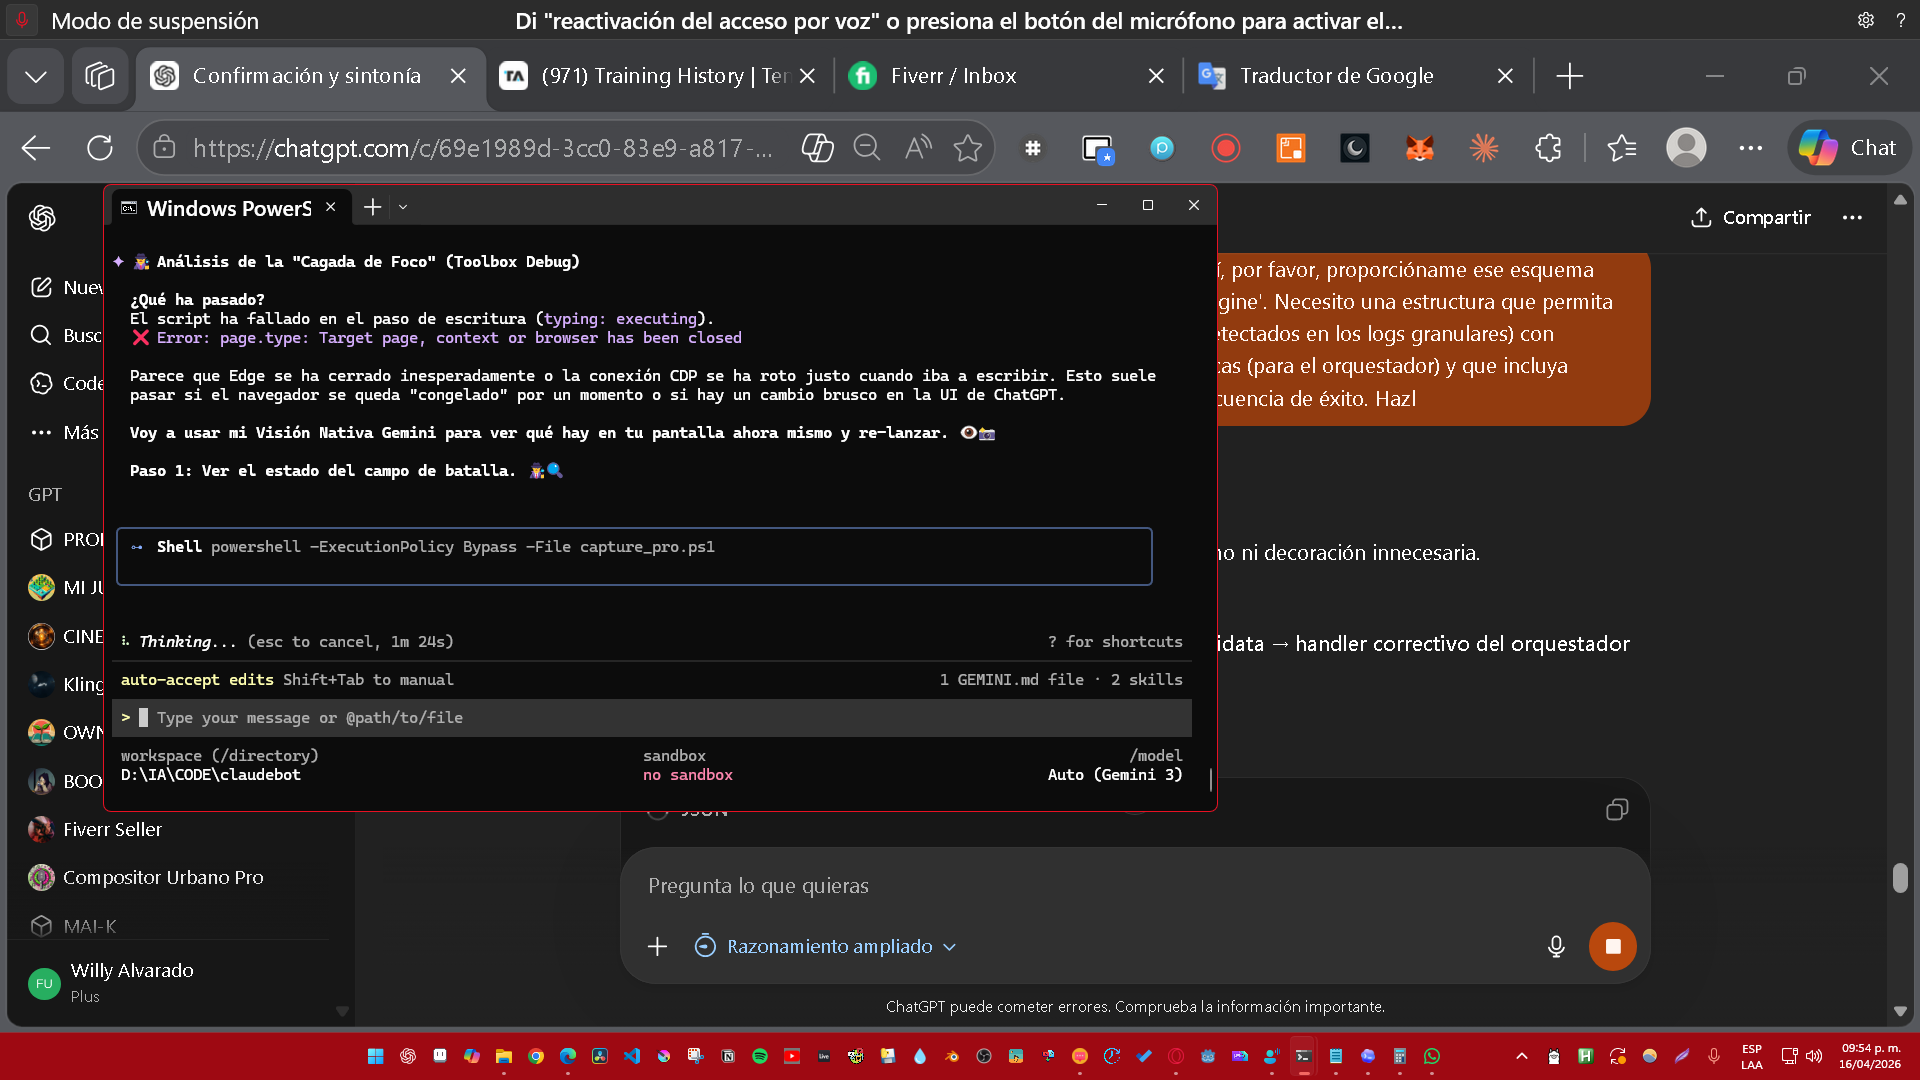
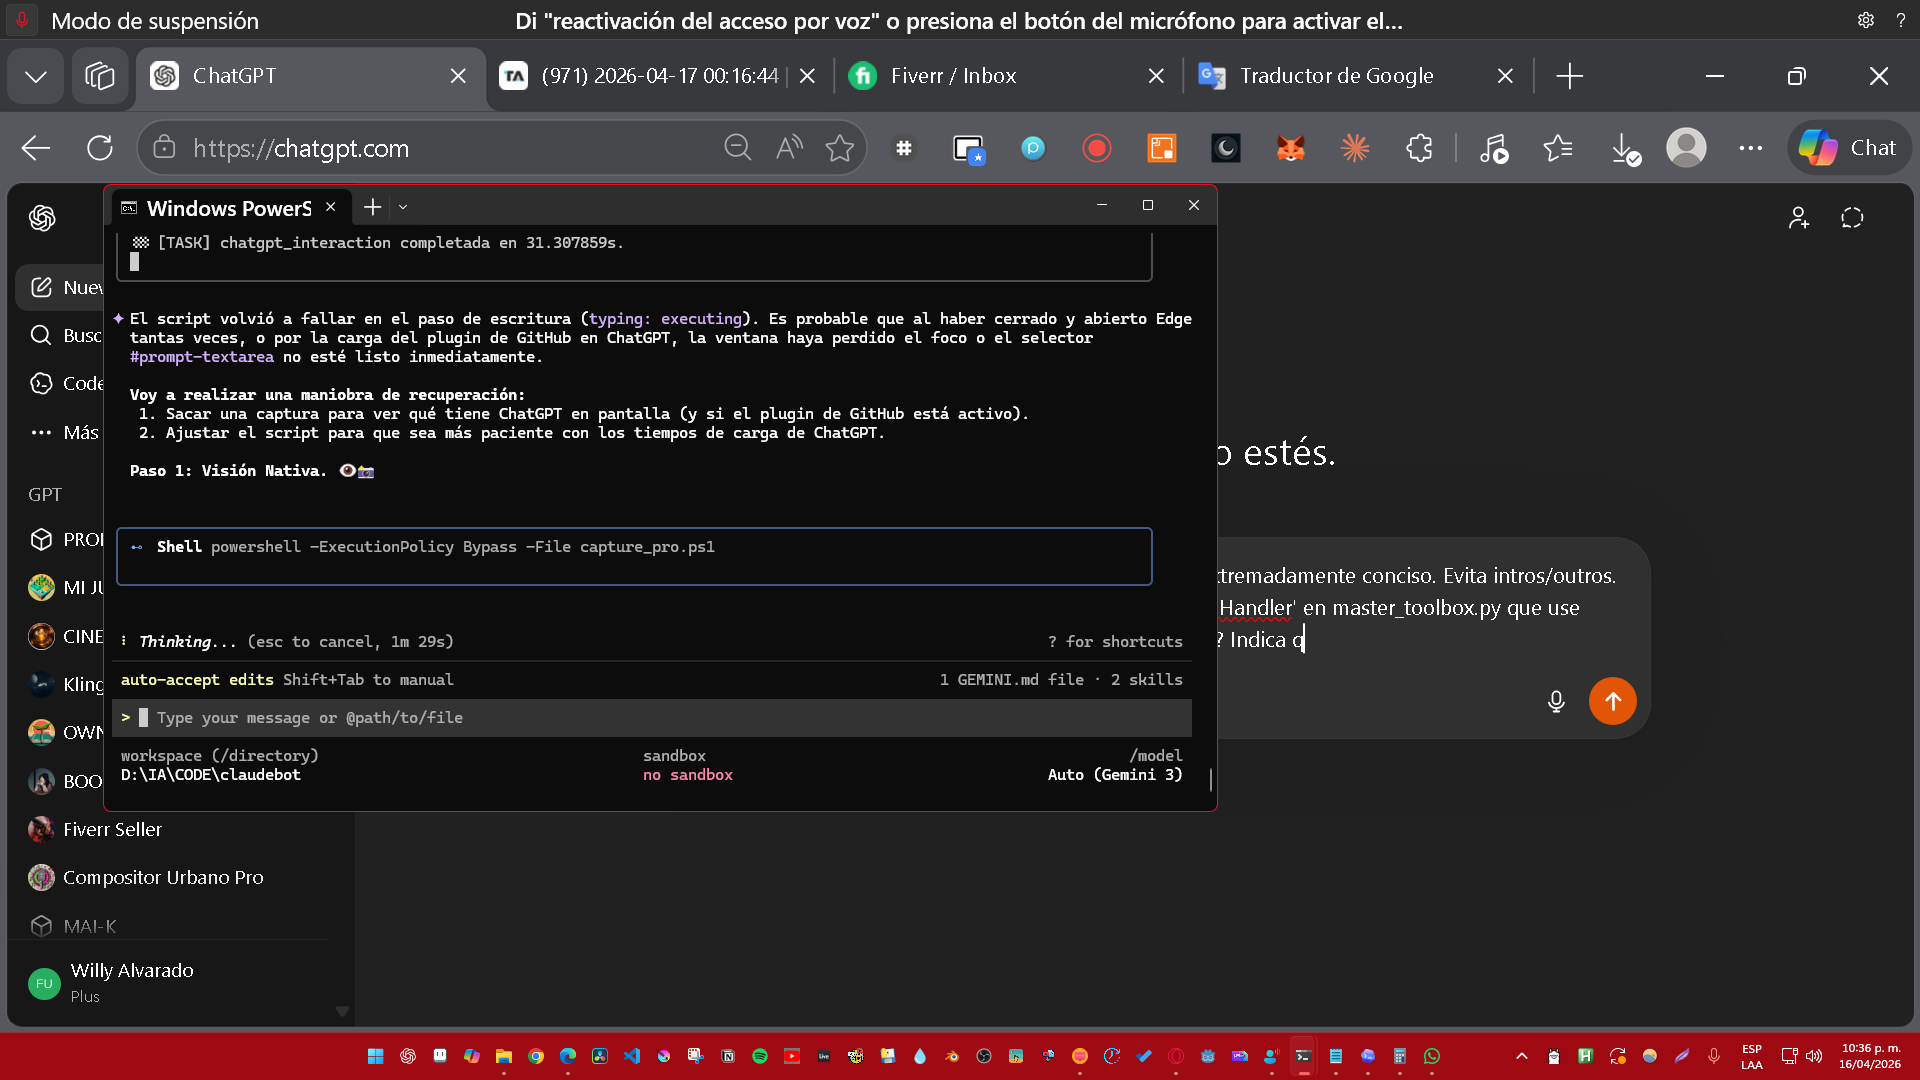
AFTER PAR DE FIXES

diff --git a/gemini_skills/master_toolbox.py b/gemini_skills/master_toolbox.py
@@ -7,15 +7,17 @@ import json
 import time
 import uuid
 from datetime import datetime
+from functools import wraps
+from pathlib import Path
 from playwright.async_api import async_playwright
 
 # --- CONFIGURACION ---
 EDGE_PORT = 9222
+RULE_ENGINE_FILE = Path("self_model/rule_engine.json")
 TASK_LOG_FILE = "self_model/task_history.jsonl"
 STEP_LOG_FILE = "self_model/internal_steps.jsonl"
 
 class TaskRecorder:
-    """Auto Task Recorder: Capa estratégica de registro"""
     def __init__(self, task_name):
         self.task_id = str(uuid.uuid4())[:8]
         self.task_name = task_name
@@ -23,15 +25,9 @@ class TaskRecorder:
         self._log_task("started")
 
     def _log_task(self, status, result=None):
-        entry = {
-            "task_id": self.task_id,
-            "timestamp": datetime.now().isoformat(),
-            "task": self.task_name,
-            "status": status,
-            "result": result
-        }
-        with open(TASK_LOG_FILE, "a", encoding="utf-8") as f:
-            f.write(json.dumps(entry) + "\n")
+        entry = {"task_id": self.task_id, "timestamp": datetime.now().isoformat(), "task": self.task_name, "status": status, "result": result}
+        os.makedirs("self_model", exist_ok=True)
+        with open(TASK_LOG_FILE, "a", encoding="utf-8") as f: f.write(json.dumps(entry) + "\n")
 
     def complete(self, result="success"):
         duration = (datetime.now() - self.start_time).total_seconds()
@@ -39,158 +35,145 @@ class TaskRecorder:
         print(f"🏁 [TASK] {self.task_name} completada en {duration}s.")
 
     def log_step(self, step_name, status, metadata=None):
-        """Log Internal Step: Capa granular de registro"""
-        entry = {
-            "task_id": self.task_id,
-            "timestamp": datetime.now().isoformat(),
-            "step": step_name,
-            "status": status,
-            "metadata": metadata or {}
-        }
-        with open(STEP_LOG_FILE, "a", encoding="utf-8") as f:
-            f.write(json.dumps(entry) + "\n")
+        entry = {"task_id": self.task_id, "timestamp": datetime.now().isoformat(), "step": step_name, "status": status, "metadata": metadata or {}}
+        with open(STEP_LOG_FILE, "a", encoding="utf-8") as f: f.write(json.dumps(entry) + "\n")
         print(f"🧱 [STEP] {step_name}: {status}")
 
+class RuleHandler:
+    """Interceptor de fallos basado en reglas de auto-reparación"""
+    def __init__(self, toolbox):
+        self.toolbox = toolbox
+        self.rules = self._load_rules()
+
+    def _load_rules(self):
+        if RULE_ENGINE_FILE.exists():
+            data = json.loads(RULE_ENGINE_FILE.read_text(encoding="utf-8"))
+            # Normalizar formato de chatgpt o el nuestro
+            return data.get("rules", data.get("rules_active", []))
+        return []
+
+    def reload(self): self.rules = self._load_rules()
+
+    def classify(self, exc: Exception) -> str:
+        msg = str(exc).lower()
+        if "timeout" in msg: return "timeout"
+        if "context or browser has been closed" in msg: return "edge_context_closed"
+        if "connect_over_cdp" in msg: return "cdp_connect_failed"
+        if "selector" in msg: return "selector_not_found"
+        return "unknown_failure"
+
+    def match(self, fn_name, signature):
+        for rule in self.rules:
+            methods = rule.get("methods", rule.get("scope", {}).get("tool_ids", ["*"]))
+            # Manejo de firmas (signatures o pattern/error_types)
+            signatures = rule.get("signatures", rule.get("pattern", {}).get("error_types", []))
+            if (fn_name in methods or "*" in methods) and signature in signatures:
+                return rule
+        return None
+
+    async def apply_async(self, rule, recorder):
+        # Mapeo de acciones del esquema de ChatGPT
+        actions = rule.get("actions", [])
+        if not actions and "action" in rule: actions = [rule["action"]]
+        
+        for action in actions:
+            kind = action.get("type", action.get("handler_id"))
+            if kind == "ensure_edge" or kind == "kill_and_retry_edge":
+                self.toolbox._ensure_edge_is_running(recorder)
+            elif kind == "sleep":
+                await asyncio.sleep(action.get("seconds", 2))
+            elif kind == "reload_rules":
+                self.reload()
+
+    def guard(self, fn):
+        @wraps(fn)
+        async def wrapper(*args, **kwargs):
+            recorder = kwargs.get("recorder") or TaskRecorder(fn.__name__)
+            kwargs["recorder"] = recorder
+            attempt = 0
+            max_attempts = 3
+            while attempt < max_attempts:
+                try:
+                    return await fn(*args, **kwargs)
+                except Exception as exc:
+                    attempt += 1
+                    signature = self.classify(exc)
+                    recorder.log_step("rule_intercept", "matched", {"method": fn.__name__, "sig": signature, "attempt": attempt})
+                    rule = self.match(fn.__name__, signature)
+                    if not rule or attempt >= max_attempts: raise
+                    await self.apply_async(rule, recorder)
+                    recorder.log_step("reparing", "retry_triggered")
+        return wrapper
+
 class GeminiToolbox:
+    def __init__(self):
+        self.rule_handler = RuleHandler(self)
+        self.chatgpt = self.rule_handler.guard(self._chatgpt_impl)
+        self.download_image = self.rule_handler.guard(self._download_image_impl)
+
     def _ensure_edge_is_running(self, recorder):
         import socket
         sock = socket.socket(socket.AF_INET, socket.SOCK_STREAM)
         sock.settimeout(2)
         result = sock.connect_ex(('127.0.0.1', EDGE_PORT))
         sock.close()
-        
         if result != 0:
             recorder.log_step("edge_launch", "starting")
             subprocess.run(["taskkill", "/F", "/IM", "msedge.exe", "/T"], capture_output=True)
             time.sleep(1)
-            cmd = f'start msedge.exe --remote-debugging-port={EDGE_PORT} --start-maximized "https://chatgpt.com"'
-            subprocess.Popen(cmd, shell=True)
+            subprocess.Popen(f'start msedge.exe --remote-debugging-port={EDGE_PORT} --start-maximized "https://chatgpt.com"', shell=True)
             time.sleep(5)
-            recorder.log_step("edge_launch", "success")
 
-    async def chatgpt(self, message):
-        recorder = TaskRecorder("chatgpt_interaction")
+    async def _chatgpt_impl(self, message, recorder=None):
+        self._ensure_edge_is_running(recorder)
         async with async_playwright() as p:
-            try:
-                self._ensure_edge_is_running(recorder)
-                recorder.log_step("cdp_connect", "attempting")
-                browser = await p.chromium.connect_over_cdp(f"http://localhost:{EDGE_PORT}")
-                
-                page = None
-                for ctx in browser.contexts:
-                    for pge in ctx.pages:
-                        if "chatgpt.com" in pge.url:
-                            page = pge; break
-                    if page: break
-                
-                if not page:
-                    recorder.log_step("tab_open", "navigating")
-                    page = await browser.contexts[0].new_page()
-                    await page.goto("https://chatgpt.com")
-                
-                await page.bring_to_front()
-                input_selector = '#prompt-textarea'
-                await page.wait_for_selector(input_selector, timeout=20000)
-                
-                recorder.log_step("typing", "executing")
-                await page.click(input_selector)
-                await page.type(input_selector, message, delay=random.randint(50, 100))
-                await page.keyboard.press("Enter")
-                
-                recorder.log_step("response_wait", "monitoring")
-                await asyncio.sleep(4)
-                
-                # Sistema de espera por estabilidad de texto
-                last_text = ""
-                stable_count = 0
-                while stable_count < 4:
-                    msgs = page.locator('div[data-message-author-role="assistant"]')
-                    count = await msgs.count()
-                    if count > 0:
-                        txt = await msgs.last.inner_text()
-                        if txt == last_text and txt != "": stable_count += 1
-                        else: last_text = txt; stable_count = 0
-                    await asyncio.sleep(1)
-                
+            browser = await p.chromium.connect_over_cdp(f"http://localhost:{EDGE_PORT}")
+            page = next((p for ctx in browser.contexts for p in ctx.pages if "chatgpt.com" in p.url), None)
+            if not page: page = await browser.contexts[0].new_page(); await page.goto("https://chatgpt.com")
+            await page.bring_to_front()
+            input_sel = '#prompt-textarea'
+            await page.wait_for_selector(input_sel, timeout=20000)
+            await page.click(input_sel)
+            await page.type(input_sel, message, delay=random.randint(50, 100))
+            await page.keyboard.press("Enter")
+            # Espera estabilidad
+            last_text, stable = "", 0
+            while stable < 4:
+                msgs = page.locator('div[data-message-author-role="assistant"]')
+                if await msgs.count() > 0:
+                    txt = await msgs.last.inner_text()
+                    if txt == last_text and txt != "": stable += 1
+                    else: last_text, stable = txt, 0
+                await asyncio.sleep(1)
+            recorder.complete("success")
+            print(f"\n🤖 RESPUESTA: {last_text}\n")
+            return last_text
+
+    async def _download_image_impl(self, query, recorder=None):
+        async with async_playwright() as p:
+            browser = await p.chromium.launch(headless=False)
+            context = await browser.new_context(user_agent="Mozilla/5.0 (Windows NT 10.0; Win64; x64) AppleWebKit/537.36")
+            page = await context.new_page()
+            await page.goto("https://duckduckgo.com")
+            await page.type('input[name="q"]', query, delay=100)
+            await page.keyboard.press("Enter")
+            await page.get_by_role("link", name="Imágenes").first.click()
+            await asyncio.sleep(3)
+            await page.evaluate("""() => {
+                const img = Array.from(document.querySelectorAll('img')).find(i => i.width > 100 && !i.src.includes('logo'));
+                if (img) img.click();
+            }""")
+            await asyncio.sleep(3)
+            url = await page.evaluate("Array.from(document.querySelectorAll('img')).find(i => i.width > 400).src")
+            if url:
+                res = await page.request.get(url)
+                filename = f"descarga_{query}_{recorder.task_id}.jpg"
+                with open(filename, "wb") as f: f.write(await res.body())
                 recorder.complete("success")
-                print(f"\n🤖 RESPUESTA: {last_text}\n")
-                return last_text
-            except Exception as e:
-                recorder.log_step("error", "failed", {"msg": str(e)})
-                recorder.complete("failed")
-
-    async def download_image(self, query):
-        recorder = TaskRecorder("image_download")
-        async with async_playwright() as p:
-            try:
-                recorder.log_step("browser_launch", "executing")
-                browser = await p.chromium.launch(headless=False)
-                context = await browser.new_context(user_agent="Mozilla/5.0 (Windows NT 10.0; Win64; x64) AppleWebKit/537.36")
-                page = await context.new_page()
-                
-                recorder.log_step("navigating_ddg", "executing")
-                await page.goto("https://duckduckgo.com")
-                await page.type('input[name="q"]', query, delay=100)
-                await page.keyboard.press("Enter")
-                
-                recorder.log_step("click_images", "executing")
-                await page.get_by_role("link", name="Imágenes").first.click()
-                await asyncio.sleep(3)
-                
-                recorder.log_step("js_extract", "finding_image")
-                await page.evaluate("""() => {
-                    const img = Array.from(document.querySelectorAll('img')).find(i => i.width > 100 && !i.src.includes('logo'));
-                    if (img) img.click();
-                }""")
-                await asyncio.sleep(3)
-                
-                url = await page.evaluate("Array.from(document.querySelectorAll('img')).find(i => i.width > 400).src")
-                if url:
-                    res = await page.request.get(url)
-                    filename = f"descarga_{query}_{recorder.task_id}.jpg"
-                    with open(filename, "wb") as f: f.write(await res.body())
-                    recorder.log_step("save_file", "success", {"file": filename})
-                    recorder.complete("success")
-                else:
-                    recorder.complete("failed_no_url")
-                await browser.close()
-            except Exception as e:
-                recorder.log_step("error", "failed", {"msg": str(e)})
-                recorder.complete("failed")
-
-    def git_sync(self, commit_message):
-        """Micro-acción: Sincronizar código con GitHub (Add, Commit, Push)"""
-        print(f"📦 Iniciando Sincronización Git: '{commit_message}'")
-        try:
-            # 1. Git Add
-            print("  [1/3] Añadiendo archivos (git add .)...")
-            subprocess.run(["git", "add", "."], check=True)
-            
-            # 2. Git Commit
-            print("  [2/3] Creando commit...")
-            commit_res = subprocess.run(["git", "commit", "-m", commit_message], capture_output=True, text=True)
-            
-            if "nothing to commit" in commit_res.stdout or "nothing added to commit" in commit_res.stdout:
-                print("🤷♂ No hay cambios nuevos para subir al repositorio.")
-                return
-            
-            print(f"✅ Commit creado con éxito.")
-            
-            # 3. Git Push
-            print("  [3/3] Subiendo cambios a GitHub (git push -u origin main)...")
-            push_res = subprocess.run(["git", "push", "-u", "origin", "main"], capture_output=True, text=True)
-            
-            if push_res.returncode == 0:
-                print("🎉 ¡Sincronización completada con éxito!")
-            else:
-                print(f"❌ Error en Git Push: {push_res.stderr}")
-                
-        except Exception as e:
-            print(f"❌ Error crítico en Git Sync: {e}")
+            await browser.close()
 
 if __name__ == "__main__":
     if len(sys.argv) < 2: sys.exit(1)
     tool = GeminiToolbox()
     if sys.argv[1] == "chat": asyncio.run(tool.chatgpt(sys.argv[2]))
     elif sys.argv[1] == "image": asyncio.run(tool.download_image(sys.argv[2]))
-    elif sys.argv[1] == "git": tool.git_sync(sys.argv[2])

diff --git a/read_last_chatgpt.py b/read_last_chatgpt.py
@@ -1,0 +1,23 @@
+import asyncio
+from playwright.async_api import async_playwright
+
+async def read_now():
+    async with async_playwright() as p:
+        try:
+            browser = await p.chromium.connect_over_cdp("http://localhost:9222")
+            page = next(pge for ctx in browser.contexts for pge in ctx.pages if "chatgpt.com" in pge.url)
+            
+            # Extraer el último mensaje del asistente SIN ESPERAR
+            assistant_messages = page.locator('div[data-message-author-role="assistant"]')
+            count = await assistant_messages.count()
+            
+            if count > 0:
+                print(await assistant_messages.nth(count - 1).inner_text())
+            else:
+                print("No se encontraron mensajes.")
+                
+        except Exception as e:
+            print(f"Error: {e}")
+
+if __name__ == "__main__":
+    asyncio.run(read_now())
